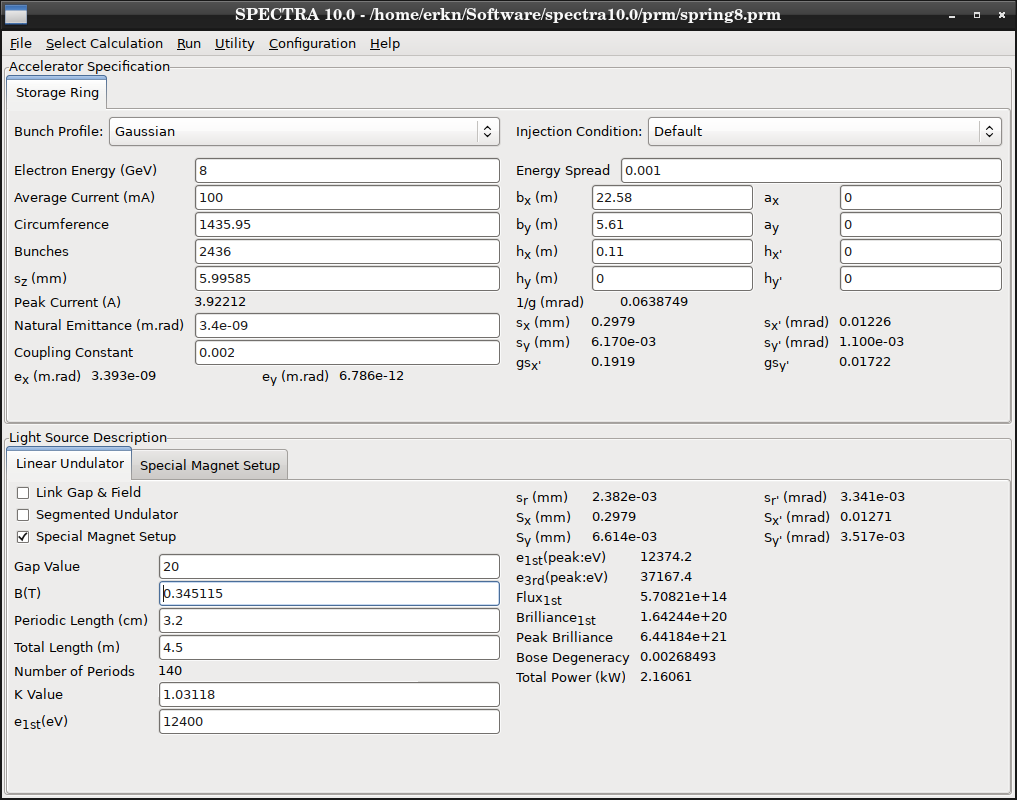
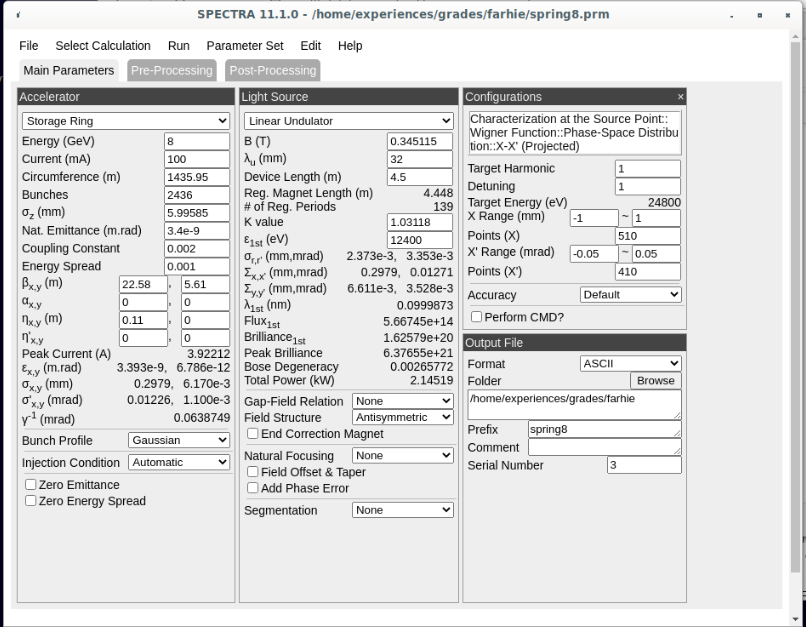
SOLEIL_May_2023:4_Sources: update with SOLEIL Undulator data.

diff --git a/2023/SOLEIL_May_2023/Day2_Wednesday_May_10th/4_Sources/README.md b/2023/SOLEIL_May_2023/Day2_Wednesday_May_10th/4_Sources/README.md
@@ -2,29 +2,43 @@
 In this practical exercise we will try out a few ways of modelling an X-ray source in McXtrace and some possibilities for coupling McXtrace to other packages.
 
 ## Exercise: Using the native McXtrace Undulator model.
-:warning: N.B. This requires the Gnu Scientific Library (GSL) to be installed. This should have been automatically installed with McXtrace install procedure. Should for some reason this not be the case you may go to (https://github.com/McStasMcXtrace/Schools/wiki/GSL-Installation) to find installation instructions.
 
 <img src="https://upload.wikimedia.org/wikipedia/commons/thumb/9/9f/Undulator.png/600px-Undulator.png">
 
-1. Start a new simulation and insert an Undulator source in it. The Undulator component has many possible parameters. To be able to compare with later results we'll use what corresponds to the default setting of the s.k. "standard undulator" at SPring-8 in Japan: <code>
+1. Start a new simulation and insert an Undulator source in it. The Undulator component has many possible parameters. To be able to compare with later results we'll use what corresponds to the default setting of the s.k. "standard undulator" at SPring-8 in Japan: 
+    <code>
     E0=13, dE=1, Ee=8, dEe=0.001, Ie=0.1, 
     K=1.03118, Nper=140, lu=3.2e-2, 
     sigey=6.17e-6, sigex=0.29979e-3, sigepx=0.01226e-3, sigepy=1.1e-6, 
     focus_xw=1e-4, focus_yh=1e-4, dist=20, 
-    E1st=12.400</code> Just as you have seen  before, the focus_xw, focus_yh, and dist parameters simply indicate at sampling window downstream of the undulator. In McXtrace, the (0,0,0)-point is taken to be the exit plane of the undulator.
+    E1st=12.400</code>
+    
+Just as you have seen  before, the focus_xw, focus_yh, and dist parameters simply indicate at sampling window downstream of the undulator. In McXtrace, the (0,0,0)-point is taken to be the exit plane of the undulator.
+
 2. Insert two monitors **20 m** downstream: one PSD and one energy-resolved monitor. Make sure that the monitors are big enough to catch all the radiation you expect, including the energy range.
 
-There are also McXtrace components to model a `Wiggler` and a `Bending_magnet`. Last but not least, the [`Shadow_input`](http://mcxtrace.org/download/components/3.0/misc/Shadow_input.html) and [`Shadow_output`](http://mcxtrace.org/download/components/3.0/misc/Shadow_output.html) allow to read data events from [Shadow](https://github.com/oasys-kit/shadow3), but also to fully insert a McXtrace simulation as into a Shadow simulation sequence (read and write).
+There are also McXtrace components to model a `Wiggler` and a `Bending_magnet`. Last but not least, the [`Shadow_input`](http://mcxtrace.org/download/components/3.0/misc/Shadow_input.html) and [`Shadow_output`](http://mcxtrace.org/download/components/3.0/misc/Shadow_output.html) allow to read data events from [Shadow](https://github.com/oasys-kit/shadow3), but also to fully insert a McXtrace
+
+:warning: N.B. This component requires the Gnu Scientific Library (GSL) to be installed. This should have been automatically installed with McXtrace install procedure. Should for some reason this not be the case you may go to (https://github.com/McStasMcXtrace/Schools/wiki/GSL-Installation) to find installation instructions. simulation as into a Shadow simulation sequence (read and write).
 
 ## Exercise: Connect with SPECTRA
 If you do not have it already you may download [SPECTRA](http://spectrax.org/spectra/) freely from the Riken website, but for the purpose of this exercise we have pre-generated a set of datafiles, that you may use: [1st harmonic](data/sp8sU_h1.zip?raw=true ""), and [3rd harmonic](data/sp8sU_h3.zip?raw=true "").
 
 ### Details for the actual data files:
-1. Generated using SPECTRA 10.0, using the Standard Spring-8 linear Undulator model, and standard beamline settings, I.e. as generic as possible. The opening screen look like this:
+1. Generated using SPECTRA 11, using the Standard Spring-8 linear Undulator model, and standard beamline settings, i.e. as generic as possible. To get help about parameters, select the _Help_ menu, _Open Reference Manual_ item. The configuration file for this example is available as [spring8.json](data/spring8.json?raw=true ""). The opening screen look like this:
 ![spectra main screen](images/spectra_main.png?raw=true "")
 
-2. The type of calculation that McXtrace expects is:`Photon distribution at source point -> Wigner function -> Phase-space profile -> x-x' Plane (Projected)`, and correspondingly for the `x-y'` plane. These two file-sets may then be used to drive a source in McXtrace.
-3. Energy ranges may be generated automatically using the de-tuning parameter.
+2. The type of calculation that McXtrace expects is:`Photon distribution at source point -> Wigner function -> Phase-space profile -> x-x' Plane (Projected)`, and correspondingly for the `x-y'` plane. These two file-sets may then be used to drive a source in McXtrace. Choose ADCII format. Then select the _Run_ menu, _Start calculation_ item.
+![spectra main screen](images/spectra_calculation_choice_x.png?raw=true "")
+
+3. Energy ranges may be generated automatically using the de-tuning parameter (e.g. 0). Right-click on 'Detunning', select 'Scan this parameter' with e.g. 
+- Initial	-0.4
+- Final	0.5
+- Number of points 11
+
+Then select the _Run_ menu, _Start calculation_ item.
+
+The data files are generated both in JSON, and ASCII. 
 
 There are some limitations in this incarnation:
 
@@ -72,3 +86,63 @@ The file you need is called [sp8stdU.mcpl.gz](data/sp8stdU.mcpl.gz?raw=true "").
 * What was the fundamental energy of the 1st harmonic?
 * This procedure relies on the undulator spectrum being sufficiently sampled by the `srw2mcpl`-program. Determine the sampling limits of the file using your monitors. 
 * Open your "old" instrument from before, and replace the source with the MCPL_input solution.
+
+## Exercise: SOLEIL Undulator HU52 "Apple-II"
+
+The LUCIA beam-line at Synchrotron SOLEIL (SD03C) is illuminated with an Undulator HU52 "Apple II" type (NdFeB magnets), 32 periods, gap 15 – 150mm, variable linear polarization, left and right circular polarizations, operating on harmonics 3 to 21. The energy range is 0.6-8 keV. 
+
+The HU52 main parameters are:
+
+HU52 parameter | symbol/unit | value
+------------------------|-----------|-----
+Period | (mm) | 52.4
+Nb of periods  | lambda_U | 30 + 2
+Gap | mm | 15.5-150
+Field remanence | B(T) | 1.26
+Magnetic field Z, max | Bz (T) | 1.974*exp(-3.1754*Gap/lambda_U)
+Magnetic field X, max | Bx (T) | 1.901*exp(-4.3387*Gap/lambda_U)
+Function beta horizontal |	beta_x (m)	|1.4
+Function beta vertical|	beta_z ( m)	|1.4
+emittance horizontale | ex (pm.rad)	|82.0
+betatron	coupling | % | 30.0
+emittance vertical |	ez (pm.rad)	|24.6
+dimension RMS horizontal|	sigma_x (µm)	|10.7
+dimension RMS vertical	|sigma_z (µm)	|5.9	
+divergence RMS horizontal	|sigma_x' (µrad)	|7.7
+divergence RMS vertical	|sigma_z' (µrad)|	4.2
+
+The storage ring parameters for SOLEIL are available at https://www.synchrotron-soleil.fr/en/research/sources-and-accelerators/electron-beam-parameters/transverse-size-electron-beam-source
+The bunch parameters are available at https://www.synchrotron-soleil.fr/en/research/sources-and-accelerators/electron-beam-parameters/bunch-length
+
+We can then derive the Undulator component parameters for LUCIA on HU52:
+```c
+Undulator(
+  E0 = 8,
+  dE = 0.1,
+  Ee = 2.75,
+  dEe = 0.001,
+  Ie = 0.5,
+  tbunch = 47e-12,
+  B = 0.42, // for a 15.5 mm gap
+  Nper = 32,
+  lu = 52.4e-3,
+  sigey = 10.7e-6,
+  sigex = 5.9e-6,
+  sigepx = 7.7e-6,
+  sigepy = 4.2e-6) 
+```
+
+For the DEIMOS beam-line (also using an HU52), we have the electron beam parameters:
+- sizes of 188×8.2 μm RMS (H×V)
+- divergences of 25.5×6.0  μrad RMS (H×V)
+- we use a 30 mm gap corresponding to a magnetic field of 0.32 T
+
+The detector is located at L=20.465 m from the photon source. The photon beam divergence at the detector should be around 1.2 μrad RMS.
+
+References:
+- F. Briquez et al., Proceedings of FEL08, Gyeongju, Korea, https://accelconf.web.cern.ch/fel2008/papers/tupph015.pdf
+- Thierry Moreno et al., J Sync rad 19 (2012) 179, https://journals.iucr.org/s/issues/2012/02/00/kt5033/index.html
+- https://accelconf.web.cern.ch/ipac2013/talks/mozb102_talk.pdf
+- T. Moreno et al., https://www.researchgate.net/publication/258548494_Undulator_emission_analysis_Comparison_between_measurements_and_simulations
+
+
